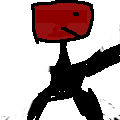
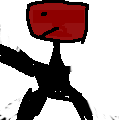
walk dir

diff --git a/message.js b/message.js
@@ -1,90 +1,6 @@
-const questionMess = ["おはよう", "Q: 今日は冒険する？　　　はい　　　いいえ", ["冒険に出かけるぞ"], ["今日は家でゆっくりしよう", "おやすみなさい"], "一日が終了した。"];
-const battleMess = ["野生のモンスターAが現れた！", "勝負だ! キャラクターB!", "行動を選択してください。","Bの物理攻撃!","Aは倒れた。"];
-const talkMess = ["こんにちは","あなたの名前を入力してください。","設定が完了しました。","ゲームをお楽しみください!!"]
-const Message=[questionMess, battleMess, talkMess];
-
-var onMessage=true;
-
-var lstnum=0;//Messageリスト内の扱うリストを指定
-var in_lstnum=0;//各リスト内の出力位置を管理
-var messChoice=0;//選択肢シーンでの分岐判定
-var messCheck=false;
-var Choicenum=0;
-
-function messageMain(){
-    if(onMessage){
-    ctx2d.fillStyle=black;
-    ctx2d.font="20px san-serif";
-    //textの表示
-    if(messCheck){
-        ctx2d.fillText(Message[lstnum][in_lstnum][Choicenum], 300,300);
-    }
-    else{ctx2d.fillText(Message[lstnum][in_lstnum], 300,300);}
-    //////
-
-    //選択肢シーン
-    if(Message[lstnum][in_lstnum][0]=="Q"){
-        if(messChoice==0){
-            make_shape(550,290,520,265,520,315);}
-        else if(messChoice==1){
-            make_shape(650,290,620,265,620,315);}
-        //選択肢が２つの場合のみ想定
-        if(rightkey && messChoice<1){
-            messChoice+=1;
-            rightkey=false;}
-        else if(leftkey && messChoice>0){
-            messChoice-=1;
-            leftkey=false;}
-    }
-    //////
-
-    //spacekey入力時に次のメッセージに進む
-    if(spacekey){
-        if(messCheck){
-            if(Choicenum+1==Message[lstnum][in_lstnum].length){
-                messCheck=false;
-                in_lstnum+=(2-messChoice);
-                messChoice=0;}
-            else{Choicenum++;}
-        }//選択後の文章処理
-        else{in_lstnum += 1 + messChoice;}//選択肢がなければ自動的に+1になる。
-        if(Message[lstnum][in_lstnum-(1+messChoice)][0]=="Q"){messCheck=true;}
-        spacekey=false;
-    }
-    //////
-
-    if(in_lstnum == Message[lstnum].length){//一連のメッセージ終了時イベント
-        lstnum++;
-        in_lstnum=0;
-    }
-
-    if(lstnum == Message.length){//全てのメッセージ終了
-        onMessage=false;
-    }
-
-    }
-}
-
-function make_shape(a,b,c,d,e,f){ //図形作成
-    //描画コンテキストの取得
-    var canvas = document.getElementById('mainCanvas');
-    if (canvas.getContext) {
-        ctx2d.strokeStyle=black;
-        var context = canvas.getContext('2d');
-        //ここに具体的な描画内容を指定する
-        //新しいパスを開始する
-        context.beginPath();
-        //パスの開始座標を指定する
-        context.moveTo(a,b);
-        //座標を指定してラインを引いていく
-        context.lineTo(c,d);
-        context.lineTo(e,f);
-        //パスを閉じる（最後の座標から開始座標に向けてラインを引く）
-        context.closePath();
-        //現在のパスを輪郭表示する
-        context.stroke();
-        var pastle_green1="rgba(173,255,173,1.0)";
-        ctx2d.fillStyle=pastle_green1;
-        ctx2d.fill();
-    }
+function messageMain() {
+    /*
+    @param なし
+    @return 
+    */
 }

diff --git a/field.js b/field.js
@@ -1,4 +1,4 @@
-var walkanimation=0; //歩くアニメーション
+var walkanimation=0,walkdir=3; //歩くアニメーション,方向
 const charasize=60; //キャラクターのサイズ
 const pre_charasize=60; //プリレンダリング用のキャラクターのサイズ
 const fieldwidth=4000;//フィールドの幅の最大値
@@ -10,15 +10,16 @@ function initiate_field(){
     @param なし
     @return なし
     */
-    var charaimg1=new Image(),charaimg2=new Image(); //キャラクターのプリレンダリングの処理
-    charaimg1.src="./imgs/character_field1.png";
-    charaimg2.src="./imgs/character_field2.png";
     characanvas=document.createElement("canvas");
-    characanvas.width=pre_charasize*2, characanvas.height=pre_charasize;
+    characanvas.width=pre_charasize*2, characanvas.height=pre_charasize*4;
     var characanvasctx=characanvas.getContext("2d"); //charaimg1は0,0、charaimg2はその右側に描画
-    charaimg1.onload=function(){characanvasctx.drawImage(charaimg1,0,0,pre_charasize,pre_charasize)}
-    charaimg2.onload=function(){characanvasctx.drawImage(charaimg2,pre_charasize,0,pre_charasize,pre_charasize)}
-
+    for(let i = 0;i<4;i++){
+        for(let j = 0;j<2;j++){
+            const charaimg=new Image();
+            charaimg.src="./imgs/character_field"+i+"_"+j+".png";
+            charaimg.onload=function(){characanvasctx.drawImage(charaimg,j*pre_charasize,i*pre_charasize,pre_charasize,pre_charasize)}
+        }
+    }
     fieldcanvas=document.createElement("canvas");
     fieldcanvas.width=fieldwidth*fieldnum, fieldcanvas.height=fieldheight;
     var fieldcanvasctx=fieldcanvas.getContext("2d"); //フィールドは横並びに描画　幅はfieldwidth
@@ -80,9 +81,13 @@ function fieldMain() {
     @return なし
     */
     ctx2d.drawImage(fieldcanvas,myposx-(width-charasize)/2,myposy-(height-charasize)/2,width,height,0,0,width,height); //背景の描画
-    ctx2d.drawImage(characanvas,charasize*Math.floor(walkanimation/15),0,charasize,charasize,(width-charasize)/2,(height-charasize)/2,charasize,charasize); //キャラクターの描画
+    ctx2d.drawImage(characanvas,charasize*Math.floor(walkanimation/15),charasize*walkdir,charasize,charasize,(width-charasize)/2,(height-charasize)/2,charasize,charasize); //キャラクターの描画
 
     //移動処理
+    if (leftkey) walkdir=0;
+    if (rightkey) walkdir=1;
+    if (upkey) walkdir=2;
+    if (downkey) walkdir=3;
     if (leftkey && !checkConflict(0)) myposx-=walkspeed,walkeve();
     if (rightkey && !checkConflict(1)) myposx+=walkspeed,walkeve();
     if (upkey && !checkConflict(2)) myposy-=walkspeed,walkeve();

diff --git a/database.js b/database.js
@@ -2,7 +2,7 @@
 /* 　フィールド関連  */
 ////////////////////
 var walkCol = [ //歩ける色のリスト
-    [[34,0,0],[255,255,255]],
+    [[200,220,220],[255,255,255]],
     [[34,0,0]],
     [[34,0,0]],
     [[34,0,0]],
@@ -10,7 +10,7 @@ var walkCol = [ //歩ける色のリスト
     [[34,0,0]]
 ]
 var fieldbackdata=[ //フィールドの長方形データをすべて格納（主に歩ける部分）
-    [["rgba(34,0,0,1)",0,0,4000,4000]],
+    [["rgba(200,220,220,1)",0,0,4000,4000]],
     [["0x220000",0,0,4000,4000]],
     [["0x220000",0,0,4000,4000]],
     [["0x220000",0,0,4000,4000]],

diff --git a/mypic.js b/mypic.js
@@ -1,6 +1,6 @@
 function mypicMain() {
     /*
-    @param 
+    @param なし
     @return 
     */
 }
